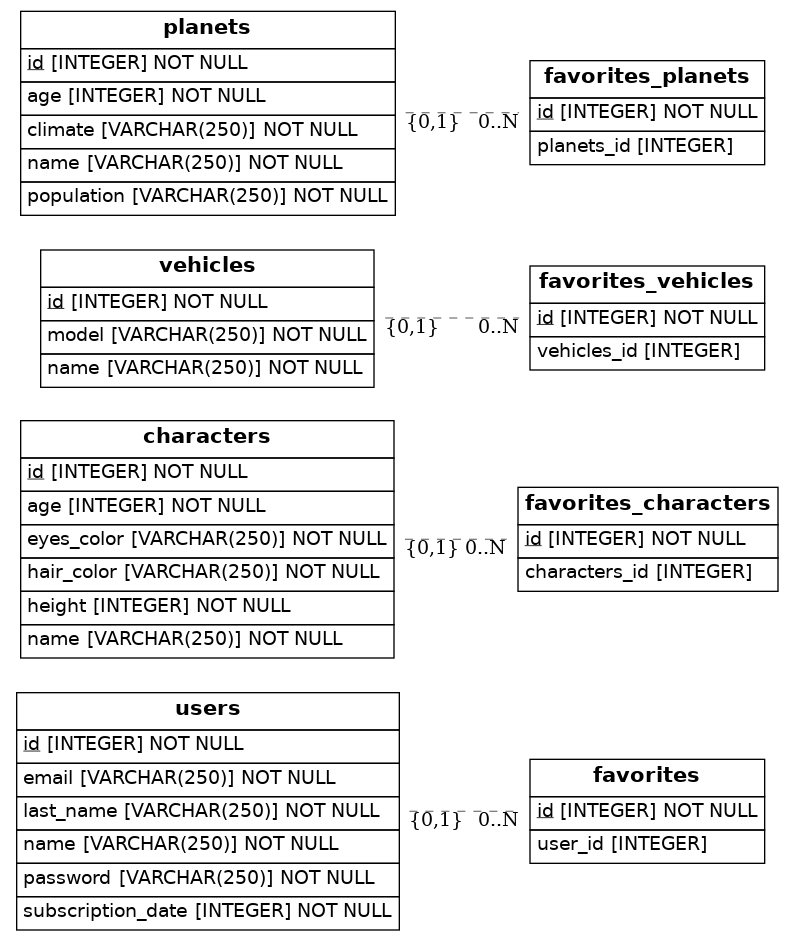
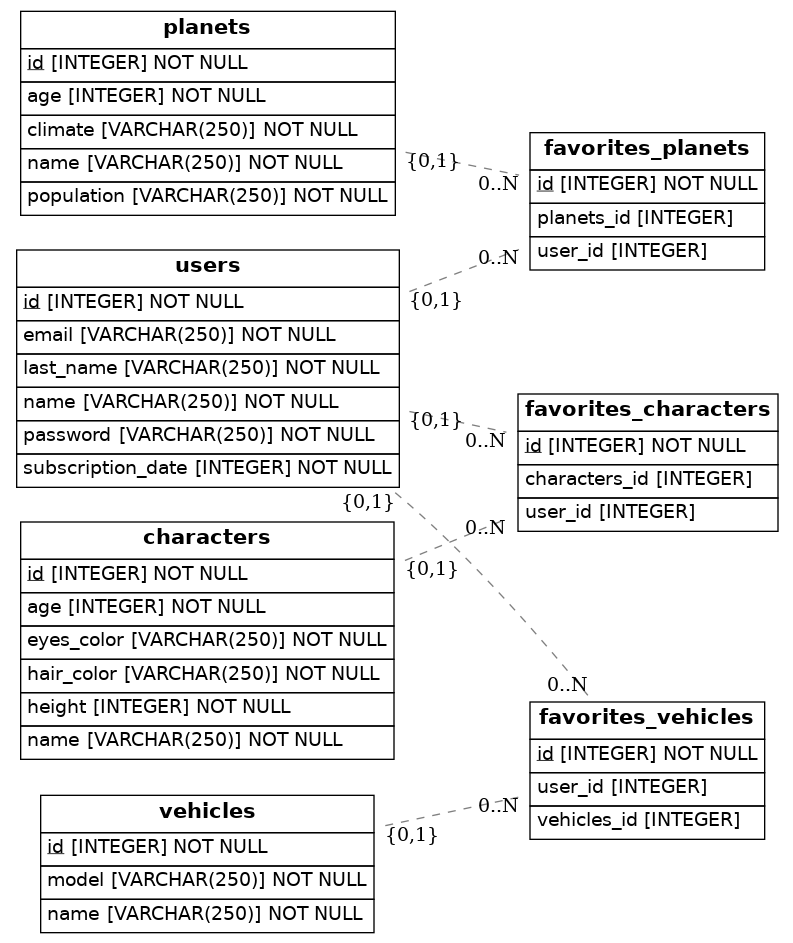
Project finished

diff --git a/src/models.py b/src/models.py
@@ -27,12 +27,14 @@ class Characters(Base):
     hair_color = Column(String(250), nullable=False)
     eyes_color = Column(String(250), nullable=False)
     height = Column(Integer, nullable=False)
+   
 
 class Vehicles(Base):
     __tablename__ = 'vehicles'
     id = Column(Integer, primary_key=True)
     name = Column(String(250), nullable=False)
     model = Column(String(250), nullable=False)
+    
     
 class Planets(Base):
     __tablename__ = 'planets'
@@ -41,18 +43,16 @@ class Planets(Base):
     age = Column(Integer, nullable=False)
     climate = Column(String(250), nullable=False)
     population = Column(String(250), nullable=False)
-    
-class Favorites(Base):
-    __tablename__ = 'favorites'
-    id = Column(Integer, primary_key=True)
-    user_id = Column(Integer, ForeignKey('users.id'))
-    user = relationship('Users', back_populates='favorites')
+   
+
 class Favorites_planets(Base):
     __tablename__ = 'favorites_planets'
     id= Column(Integer, primary_key=True)
     planets_id = Column(Integer, ForeignKey('planets.id'))
     favorites = relationship('Favorites', back_populates='favorites_planets')
     planets = relationship('Planets')
+    user_id = Column(Integer, ForeignKey('users.id'))
+    user = relationship('Users', back_populates='favorites')
 
 class Favorites_characters(Base):
     __tablename__ = 'favorites_characters'
@@ -60,6 +60,8 @@ class Favorites_characters(Base):
     characters_id = Column(Integer, ForeignKey('characters.id'))
     favorites = relationship('Favorites', back_populates='favorites_characters')
     characters = relationship('Characters')
+    user_id = Column(Integer, ForeignKey('users.id'))
+    user = relationship('Users', back_populates='favorites')
 
 class Favorites_vehicles(Base):
     __tablename__ = 'favorites_vehicles'
@@ -67,6 +69,8 @@ class Favorites_vehicles(Base):
     vehicles_id = Column(Integer, ForeignKey('vehicles.id'))
     favorites = relationship('Favorites', back_populates='favorites_vehicles')
     vehicles = relationship('Vehicles')
+    user_id = Column(Integer, ForeignKey('users.id'))
+    user = relationship('Users', back_populates='favorites')
 
     def to_dict(self):
         return {}
